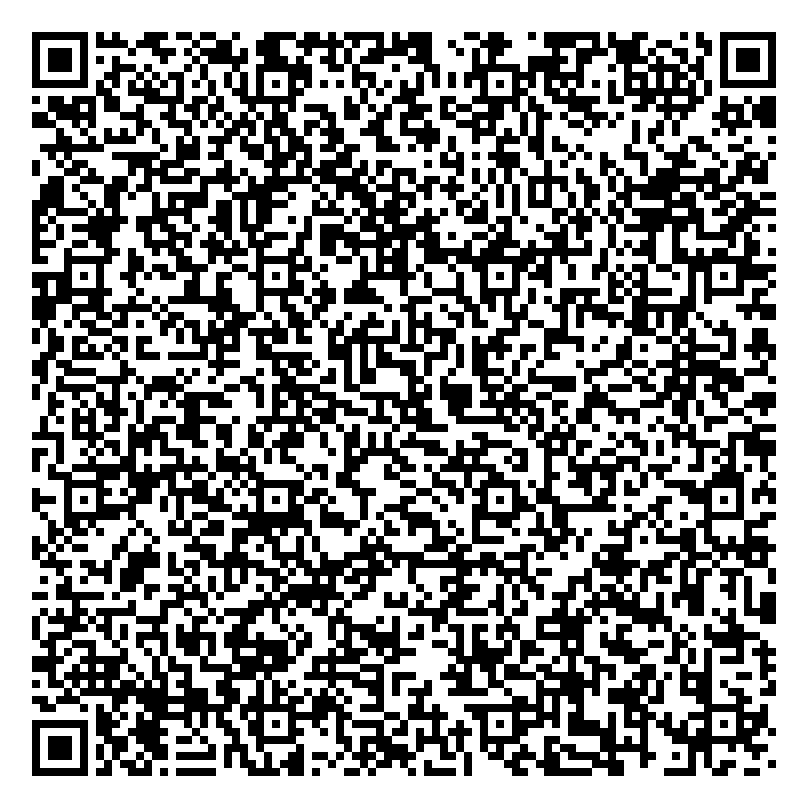
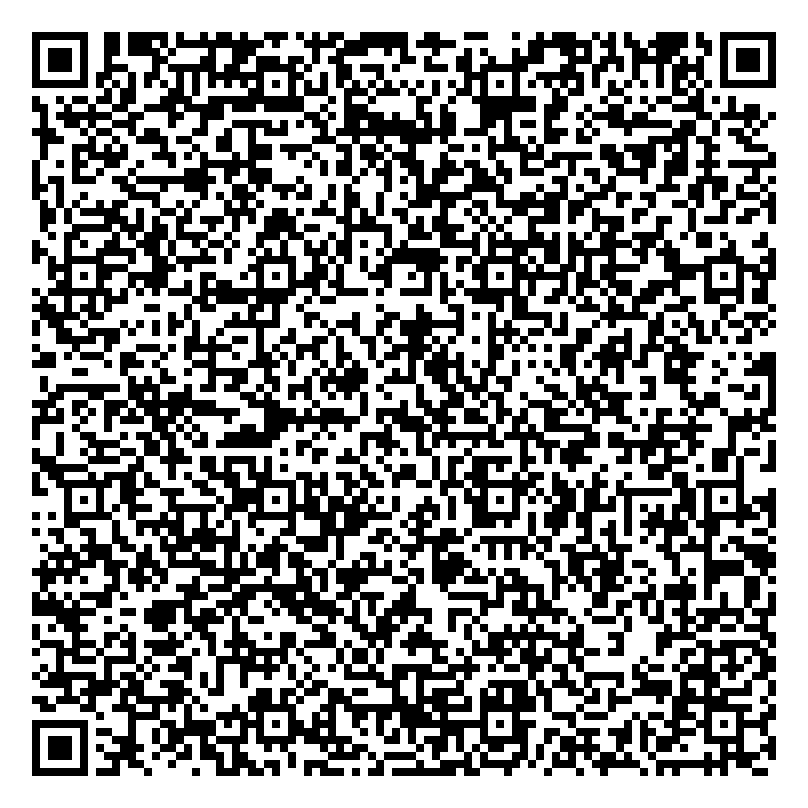
fix: separate external reviewer identity

diff --git a/Release/reviewer-assets/generate-and-verify-offline-public-qr.swift b/Release/reviewer-assets/generate-and-verify-offline-public-qr.swift
@@ -23,13 +23,13 @@ private enum AssetFailure: Error, CustomStringConvertible {
 private enum OfflinePublicQRAssetTool {
     private static let expectedIssuerInstallationID = "11111111-2222-4333-8444-555555555555"
     private static let expectedCard = PersonCard(
-        id: "person-review-alexey",
-        name: "Алексей Морозов",
-        role: "Product Lead",
-        company: "North Star",
+        id: "person-review-dmitry",
+        name: "Дмитрий Волков",
+        role: "Tech Lead",
+        company: "Signal Garden",
         phone: "",
-        email: "alexey@example.com",
-        tagline: "Создаю продукты, которые соединяют людей.",
+        email: "dmitry@example.net",
+        tagline: "Создаю понятные и доступные продукты.",
         hasAudioGreeting: false,
         meetingPlace: nil,
         isBlocked: false,

diff --git a/Release/manual-device-checks.md b/Release/manual-device-checks.md
@@ -69,5 +69,5 @@
 - [ ] Опубликовать privacy policy, support и moderation contacts; проверить ссылки из приложения и metadata App Store Connect.
 - [ ] Заполнить App Privacy, ATT, возрастной рейтинг, export compliance и review notes строго по `AppPrivacy.yml` и фактическому privacy report архива.
 - [ ] Сверить семь подготовленных 1320×2868 JPEG в `Release/app-store-metadata/screenshots/` с финальной подписанной конфигурацией и повторно снять любой экран, где изменился UI/брендинг/production-статус.
-- [ ] Отсканировать `Release/reviewer-assets/test-qr.png` финальной физической сборкой и подтвердить canonical `yperson:v2:` payload из `Release/reviewer-assets/offline-public-qr-payload.txt`, публичный preview Алексея Морозова, пометку офлайн-импорта и отдельное подтверждение локального сохранения без cloud connection.
+- [ ] Отсканировать `Release/reviewer-assets/test-qr.png` финальной физической сборкой и подтвердить canonical `yperson:v2:` payload из `Release/reviewer-assets/offline-public-qr-payload.txt`, публичный preview Дмитрия Волкова, пометку офлайн-импорта и отдельное подтверждение локального сохранения без cloud connection.
 - [ ] Создать подписанный архив, просмотреть Organizer privacy report, embedded extensions, entitlements, symbols и validation warnings; загрузку и изменение App Store Connect выполнять только после нового явного утверждения непосредственно перед внешним действием.

diff --git a/Release/reviewer-assets/README.md b/Release/reviewer-assets/README.md
@@ -5,11 +5,11 @@ All identities and contact details below are fictional.
 ## Offline public QR card
 
 - File: `test-qr.png`; its exact deterministic source is `offline-public-qr-payload.txt`.
-- Payload: canonical `yperson:v2:` data accepted by the production decoder for the fictional Alexey Morozov (`Product Lead`, `North Star`). It contains no phone, private fields, meeting place, exchange token, or expiry.
-- Path: Exchange → Scan QR → continue from the camera pre-prompt → scan the PNG displayed on another screen → review Alexey Morozov → Add person.
+- Payload: canonical `yperson:v2:` data accepted by the production decoder for the fictional Dmitry Volkov (`Tech Lead`, `Signal Garden`). This identity is separate from every Debug-only screenshot fixture. The payload contains no phone, private fields, meeting place, exchange token, or expiry.
+- Path: Exchange → Scan QR → continue from the camera pre-prompt → scan the PNG displayed on another screen → review Dmitry Volkov → Add person.
 - Expected: the preview identifies the import as offline. Saving adds the public card only to this iPhone; it does not establish a cloud connection because the payload has no exchange token.
 
-The fixture can be regenerated and checked with `verify-offline-public-qr.sh --write`. Verification compiles the real production models/codec and requires `ZXING_CORE_JAR` pointing to a local ZXing Core 3.5.3 jar, so PNG decoding fails closed when an independent decoder is unavailable.
+The fixture can be regenerated and checked with `verify-offline-public-qr.sh --write`. Verification compiles the real production models/codec and requires `ZXING_CORE_JAR` pointing to a compatible local ZXing Core jar, so PNG decoding fails closed when an independent decoder is unavailable.
 
 ## Runtime manual-code path
 
